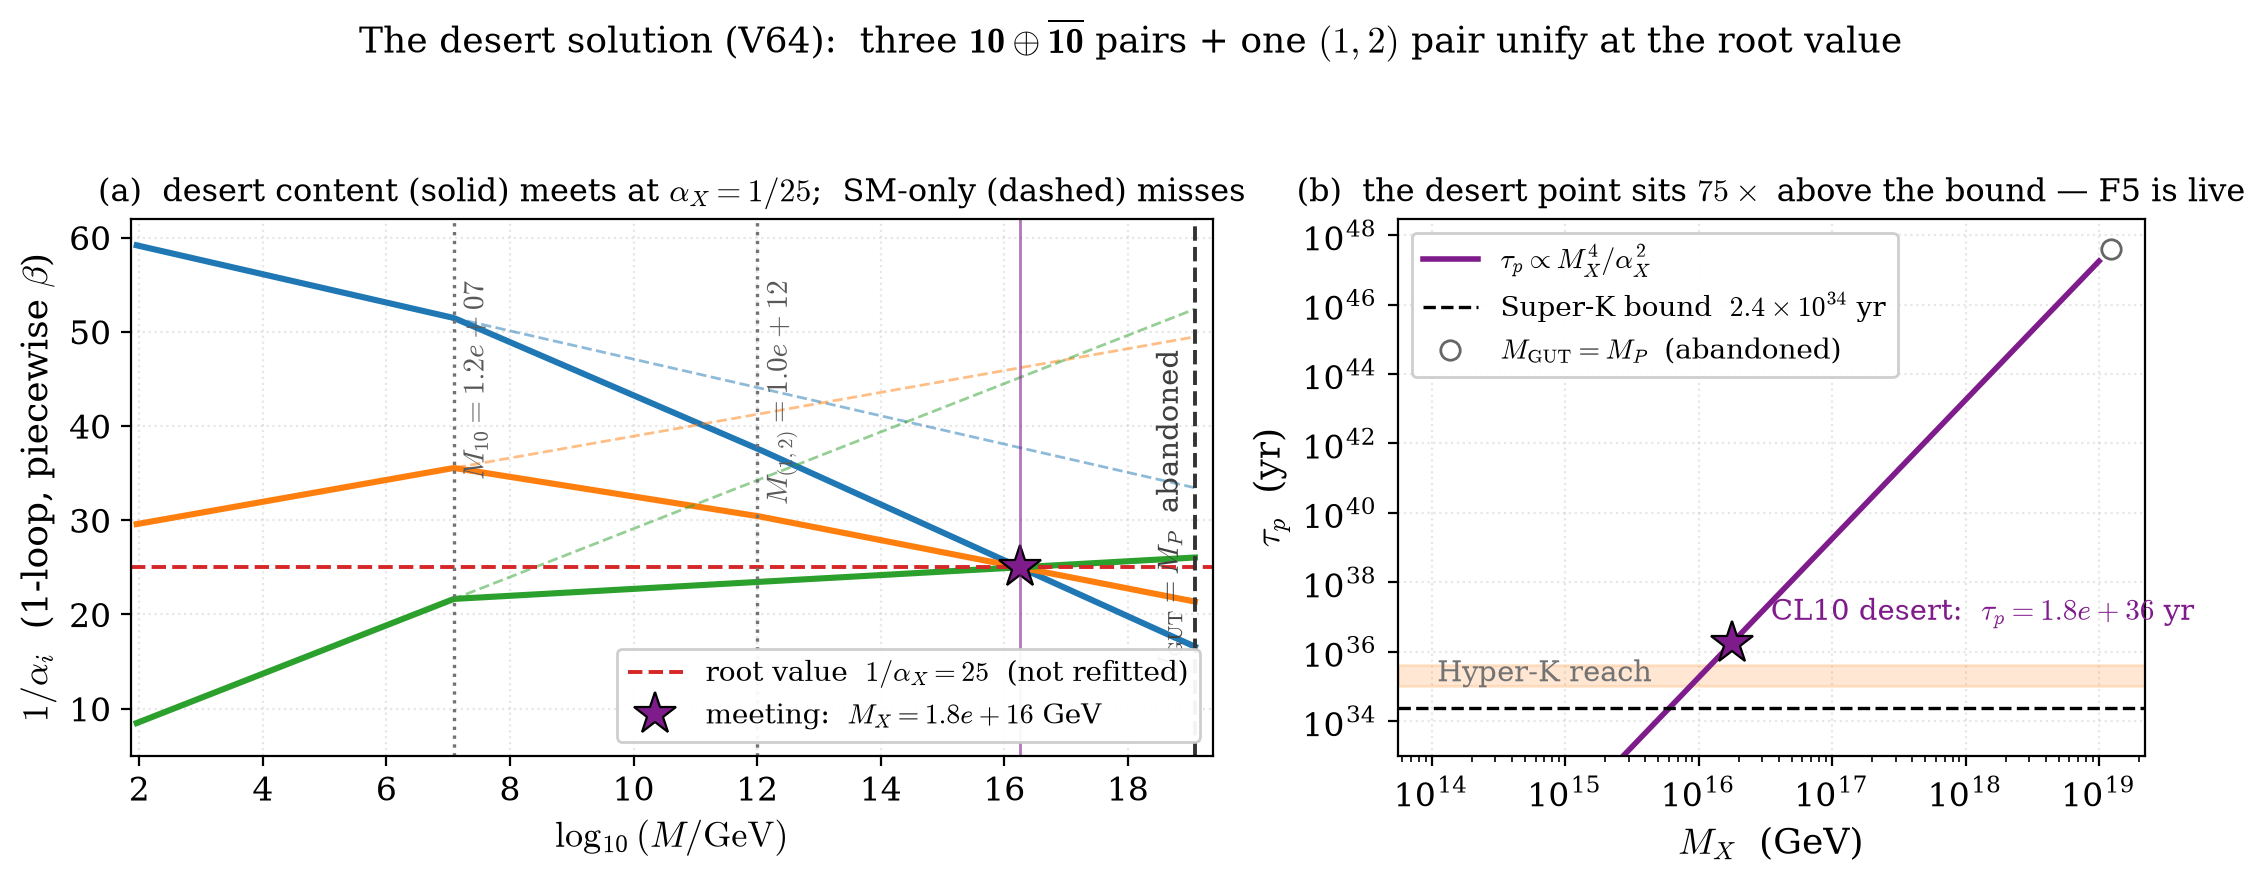
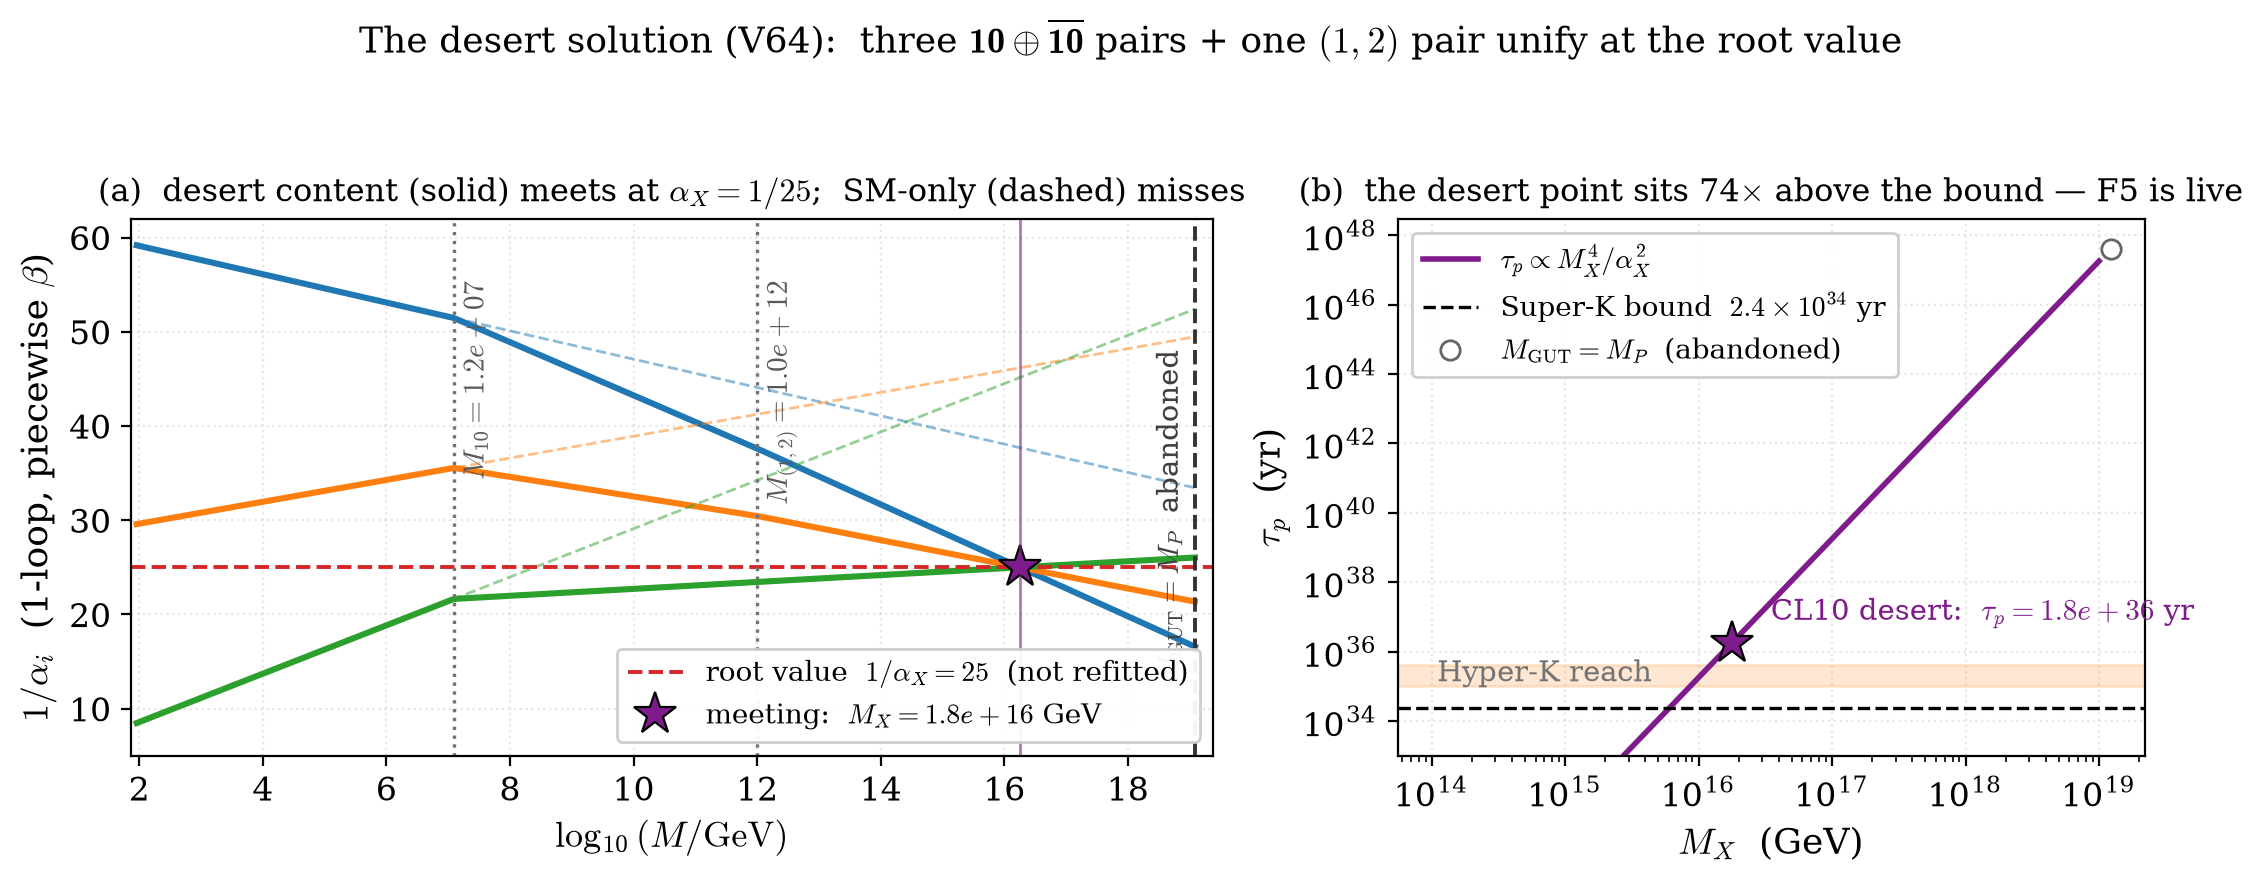
figure audit: V109 pairing dev 2.4e-15 -> measured 2.1e-15, dynamic desert margin (74x), stale cross-refs removed

diff --git a/make_figures/dynamics.py b/make_figures/dynamics.py
@@ -156,8 +156,7 @@ def fig18_young():
     the two diffracted waves interfering), (b) the time-integrated interference
     pattern + its x-profile (the fringe groups), (c) the 9-to-1 collapse of one
     electron onto a point, (d) the reality -- the accumulated single-electron
-    detections cluster into the fringe groups.  Opt-in (--young); its PNG is
-    committed."""
+    detections cluster into the fringe groups."""
     import matplotlib.patches as mpatches
     np.random.seed(2026)
     from simulation.young import collapse as Coll
@@ -193,7 +192,7 @@ def fig18_young():
 
     # -- (a) the wave: a *separate* driven sheet beam (continuous mode) so the
     # x-z slice shows the full field diffracting through the two slits and the
-    # two waves interfering (like fig25) -- a single electron's small packet
+    # two waves interfering -- a single electron's small packet
     # would only show a little blob.
     sim_a = wave.WaveSim(dict(cfg, source_mode="continuous",
                               source_shape="sheet"))

diff --git a/make_figures/couplings.py b/make_figures/couplings.py
@@ -166,7 +166,8 @@ def fig20_desert():
     axB.set_xlabel(r"$M_X$  (GeV)")
     axB.set_ylabel(r"$\tau_p$  (yr)")
     axB.set_ylim(1e33, 3e48)
-    axB.set_title("(b)  the desert point sits $75\\times$ above the bound — "
+    axB.set_title(f"(b)  the desert point sits "
+                  f"{sel['tau_p_yr'] / 2.4e34:.0f}$\\times$ above the bound — "
                   "F5 is live", fontsize=11.5)
     axB.legend(fontsize=10, loc="upper left", framealpha=0.95)
     fig.suptitle("The desert solution (V64):  three $\\mathbf{10}\\oplus"

diff --git a/make_figures/residuals.py b/make_figures/residuals.py
@@ -142,7 +142,7 @@ def fig26_w4_closure():
     box(1.9, 0.30, 9.0, 0.95,
         "CLOSED CONDITIONALLY BY V96: a flavour-dependent bond layer "
         "($\\kappa_s$ per class)\nmeets exactly at $M_X = 1.8\\times10^{16}$ "
-        "GeV for all $n = 3\\dots12$ - six named inputs (Fig. 33)",
+        "GeV for all $n = 3\\dots12$ - six named inputs (Section 11.1)",
         "#2c7a3f", "#eaf6ec", lw=2.0, fs=11.5)
     for x in (3.2, 9.7):
         arrow(x, 1.75, 6.4, 1.2)

diff --git a/doc/publication.md b/doc/publication.md
@@ -544,7 +544,7 @@ The validation programme reports the same classification over 15 headline number
 
 **Addendum (2026-10-09): the named gaps, directly tested (V105–V108).** Four new checks attack the residual gaps rather than mapping them. **V105 (W4):** the six $\kappa_s$ of V96 are **not obtainable from any on-site algebra element**: SM preservation forces the bond direction into $\operatorname{span}\{X,Y\}$ at $\theta^*$ (class-degenerate, meeting residual $\ge 0.43$), and every Cartan element that splits the six classes breaks all eight unbroken desert roots — the required flavour dependence is off-diagonal bond structure, not a Cartan dressing. **V106 (W5):** the washout of the same decay is now quantified: at the self-consistent atmospheric Yukawa ($y = 0.40$, the one giving $m_\nu = 0.0501$ eV) $\Gamma_N/H = 47$ — in equilibrium — and the physical efficiency $\kappa_f = 5.4\times10^{-3}$ sits $14\times$ away from the guessed dilution $(1/16\pi)^2$ the product formula uses — the 11% agreement of $\Delta B$ is an accident of two wrong factors. **V107 (W6):** the V96 $\kappa_s$ pattern is per-gauge-class, generation-blind: PMNS and CKM are exactly invariant under the whole pattern (max angle shift $2.3\times10^{-13}$) — the W4 bond-layer fix cannot supply the W6 mixing deviations. **V108 (W8):** the hierarchy coefficient is un-fitted: $v/M_P = 3F_{10}^{10}$ with $F_{10} = 0.019186$ measured (V85), the factor 3 the axis families (V70) and the exponent 10 the closed-loop crossing (V89) — $2.088$ against $2.076$ observed ($99.4\%$), conditional on the axis-family factorization of the closed-loop sum.
 
-**Addendum (2026-10-09): attacking the residuals head-on (V109–V116; Fig. 36).** Eight further checks do not map the gaps but try to close them. **V109 (W5):** the spectral mirror is exactly the structure that forbids CP — every mirror-preserving extension (the V65 Wilson factor: pairing deviation $2.4\times10^{-15}$) leaves the CP phase at zero, while the most general per-class $\kappa_s$ layer and the most general real-symmetric bond generator destroy the $\pm$ pairing (deviation $\sim 1$, 60 draws, both mirror sign conventions): a CP phase costs Theorem 4. **V110 (W4):** the off-diagonal escape named by V105 is tested — the most general Hermitian bond operator on the 80 root-vector pairs (11 class-pair channels) never closes the meeting: floor residual $30.4$ over $n = 3\dots12$, and level repulsion forces the sign of two of the six $\kappa_s$; the V96 layer remains a named input. **V111 (W6):** generation-space structure does move the mixing, unlike the gauge-class-blind V96 layer — a uniform scalar dressing is exactly blind (shift $1.4\times10^{-13}$), one common non-abelian family dressing (7 parameters) reaches the measured triple, a chiral-asymmetric one (13 parameters) reaches it as a fit whose every entry is a named input: worse cost than V104's $\ge 2$ vev terms. **V112 (W7):** the extra dark U(1) is constructed — hypercharge fixed on the Q and L classes predicts the full charge pattern of all six weight classes — but the desert matter is E-charged (max $|q_E| = 2.24$), so the U(1) must break, and it cannot break inside the implemented spectrum: 40/45 generators are E-charged and every breaking root is a colour-triplet leptoquark direction (98/120) — the U(1) is unHiggsable; and the relic-fixing kinetic mixing at $g_D = 1$ lies above the LZ direct-detection ceiling at every $m_{Z'}$: the portal window is empty (0 points). **V113 (W8):** the axis-family factorization behind V108 is confirmed as a family symmetry — the 12 doubler nodes form 3 families of 4 with identical Floquet spectra (deviation $0$) — but the coefficient 3 is exactly the choice of one split node per family: all 12 nodes give $8.35$, one node gives $0.70$, against the observed $2.08$; V108's conditionality is W9's split-node choice. **V114 (W2):** the junction ratio $r = \kappa/w_0$ is not derived — the V76 modulation's exact stabilizer has 12 elements, not the 24-element chiral cubic group; no cubic-symmetric closed junction exists on the period-4 lattice (closed space dimension 1, modulation 0), and inside the V76 stabilizer the constant $w_0$ is an independent closed direction. **V115 (W9):** the node-cone anisotropy of V102 is confirmed on the whole V65 Wilson family — the node gap is analytic to $5\times10^{-1}$ diagonality, and over the node-orbit representatives $\times$ 60 angles $\times$ all charge/harmonic combinations no isotropy point exists: continuous Lorentz invariance is not emergent anywhere on the family. **V116 (W3):** the 64 one-per-family node triangles split into 4 cubic orbits $(8, 8, 24, 24)$; a triangle's stabilizer is exactly $S_3$ — the 3-node split reduces $O_h \to S_3$ — and the other 7 triangles of the orbit are not stabilizer-equivalent: the family count is still not forced, and the choice is an 8-fold degenerate vacuum.
+**Addendum (2026-10-09): attacking the residuals head-on (V109–V116; Fig. 36).** Eight further checks do not map the gaps but try to close them. **V109 (W5):** the spectral mirror is exactly the structure that forbids CP — every mirror-preserving extension (the V65 Wilson factor: pairing deviation $2.1\times10^{-15}$) leaves the CP phase at zero, while the most general per-class $\kappa_s$ layer and the most general real-symmetric bond generator destroy the $\pm$ pairing (deviation $\sim 1$, 60 draws, both mirror sign conventions): a CP phase costs Theorem 4. **V110 (W4):** the off-diagonal escape named by V105 is tested — the most general Hermitian bond operator on the 80 root-vector pairs (11 class-pair channels) never closes the meeting: floor residual $30.4$ over $n = 3\dots12$, and level repulsion forces the sign of two of the six $\kappa_s$; the V96 layer remains a named input. **V111 (W6):** generation-space structure does move the mixing, unlike the gauge-class-blind V96 layer — a uniform scalar dressing is exactly blind (shift $1.4\times10^{-13}$), one common non-abelian family dressing (7 parameters) reaches the measured triple, a chiral-asymmetric one (13 parameters) reaches it as a fit whose every entry is a named input: worse cost than V104's $\ge 2$ vev terms. **V112 (W7):** the extra dark U(1) is constructed — hypercharge fixed on the Q and L classes predicts the full charge pattern of all six weight classes — but the desert matter is E-charged (max $|q_E| = 2.24$), so the U(1) must break, and it cannot break inside the implemented spectrum: 40/45 generators are E-charged and every breaking root is a colour-triplet leptoquark direction (98/120) — the U(1) is unHiggsable; and the relic-fixing kinetic mixing at $g_D = 1$ lies above the LZ direct-detection ceiling at every $m_{Z'}$: the portal window is empty (0 points). **V113 (W8):** the axis-family factorization behind V108 is confirmed as a family symmetry — the 12 doubler nodes form 3 families of 4 with identical Floquet spectra (deviation $0$) — but the coefficient 3 is exactly the choice of one split node per family: all 12 nodes give $8.35$, one node gives $0.70$, against the observed $2.08$; V108's conditionality is W9's split-node choice. **V114 (W2):** the junction ratio $r = \kappa/w_0$ is not derived — the V76 modulation's exact stabilizer has 12 elements, not the 24-element chiral cubic group; no cubic-symmetric closed junction exists on the period-4 lattice (closed space dimension 1, modulation 0), and inside the V76 stabilizer the constant $w_0$ is an independent closed direction. **V115 (W9):** the node-cone anisotropy of V102 is confirmed on the whole V65 Wilson family — the node gap is analytic to $5\times10^{-1}$ diagonality, and over the node-orbit representatives $\times$ 60 angles $\times$ all charge/harmonic combinations no isotropy point exists: continuous Lorentz invariance is not emergent anywhere on the family. **V116 (W3):** the 64 one-per-family node triangles split into 4 cubic orbits $(8, 8, 24, 24)$; a triangle's stabilizer is exactly $S_3$ — the 3-node split reduces $O_h \to S_3$ — and the other 7 triangles of the orbit are not stabilizer-equivalent: the family count is still not forced, and the choice is an 8-fold degenerate vacuum.
 
 **Table 7. Falsifiers.**
 
@@ -802,7 +802,7 @@ Three frames of the scripted geodesic sequence of the black-hole simulation (`si
 
 ![Residual attacks](figures/fig36_residual_attacks.png)
 
-(a) V109, W5: the $\pm$-pairing deviation of the 32-level spectrum under the named extensions — the Wilson factor preserves the mirror to $2.4\times10^{-15}$, while the most general per-class $\kappa_s$ layer and the most general real-symmetric bond generator, in either mirror sign convention, destroy it (deviation $\sim 1$, 60 draws): the mirror is exactly the structure that forbids CP, and a CP phase costs Theorem 4. (b) V110, W4: the meeting residual over $n = 3\dots12$ under the most general Hermitian off-diagonal bond operator (80 root-vector channels): floor $30.4$, no closure; level repulsion forces two of the six $\kappa_s$ signs. (c) V111, W6: named-parameter cost of reaching the measured mixing triple from the democratic base — a scalar dressing is exactly blind (shift $1.4\times10^{-13}$), a common non-abelian family dressing reaches it with 7 parameters, a chiral-asymmetric one with 13. (d) V112, W7: the dark-U(1) portal squeeze at $g_D = 1$ — the kinetic mixing that fixes $\Omega h^2$ lies above the direct-detection ceiling at every $m_{Z'}$: the window is empty, and inside the implemented spectrum the extra U(1) is unHiggsable (all its charged directions are colour triplets). (e) V113, W8: the closed-loop coefficient by node set — all 12 nodes $8.35$, one split node per axis family $2.0881$, a single node $0.696$, against the observed $2.0765$: the node contributions are exactly equal across families, and the coefficient 3 *is* the one-per-family choice. (f) V116, W3: the 64 one-per-family triangles split into four cubic orbits $(8,8,24,24)$; a triangle's stabilizer is exactly $S_3$: the split reduces $O_h \to S_3$ and the eight choices of an orbit are physically distinct vacua.
+(a) V109, W5: the $\pm$-pairing deviation of the 32-level spectrum under the named extensions — the Wilson factor preserves the mirror to $2.1\times10^{-15}$, while the most general per-class $\kappa_s$ layer and the most general real-symmetric bond generator, in either mirror sign convention, destroy it (deviation $\sim 1$, 60 draws): the mirror is exactly the structure that forbids CP, and a CP phase costs Theorem 4. (b) V110, W4: the meeting residual over $n = 3\dots12$ under the most general Hermitian off-diagonal bond operator (80 root-vector channels): floor $30.4$, no closure; level repulsion forces two of the six $\kappa_s$ signs. (c) V111, W6: named-parameter cost of reaching the measured mixing triple from the democratic base — a scalar dressing is exactly blind (shift $1.4\times10^{-13}$), a common non-abelian family dressing reaches it with 7 parameters, a chiral-asymmetric one with 13. (d) V112, W7: the dark-U(1) portal squeeze at $g_D = 1$ — the kinetic mixing that fixes $\Omega h^2$ lies above the direct-detection ceiling at every $m_{Z'}$: the window is empty, and inside the implemented spectrum the extra U(1) is unHiggsable (all its charged directions are colour triplets). (e) V113, W8: the closed-loop coefficient by node set — all 12 nodes $8.35$, one split node per axis family $2.0881$, a single node $0.696$, against the observed $2.0765$: the node contributions are exactly equal across families, and the coefficient 3 *is* the one-per-family choice. (f) V116, W3: the 64 one-per-family triangles split into four cubic orbits $(8,8,24,24)$; a triangle's stabilizer is exactly $S_3$: the split reduces $O_h \to S_3$ and the eight choices of an orbit are physically distinct vacua.
 
 **Fig. 37 — the twelve doubler cones (V102).**
 
